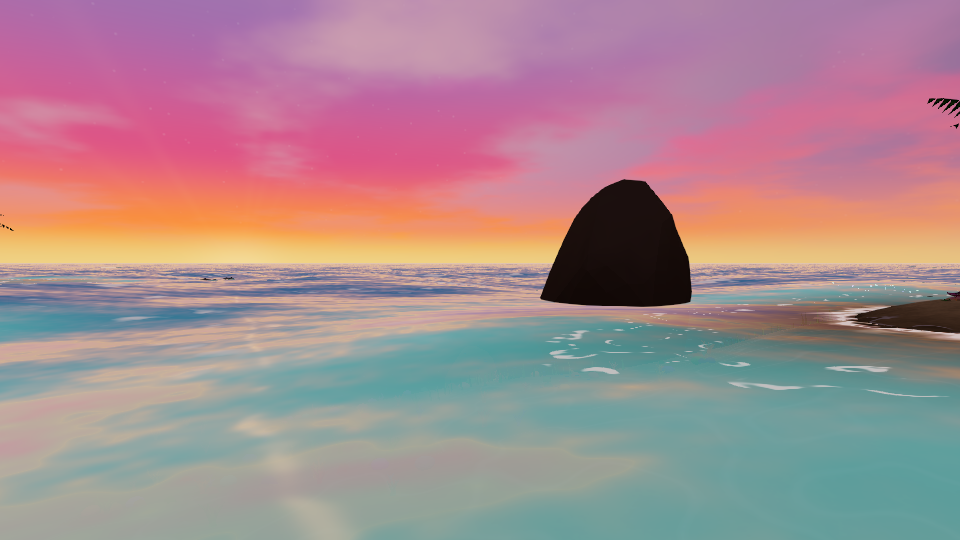
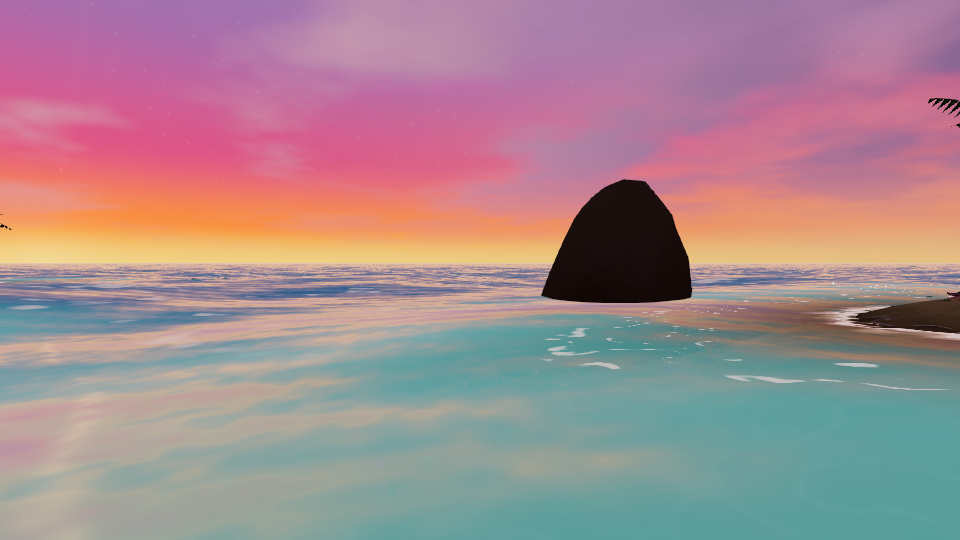
Start view: sun centred on the horizon left of the volcano; fresh-page measurements
- docs/start_view/sun_turn.patch: SUN_TURN = -7*PI/12 (-105 degrees). Sunrise lands on the horizon
  just left of the centre of the opening view, not behind the volcano.
- Opening: VIEW (0, 70, 270) looking at (5, 20, 40), with setFov(50). Measured on fresh pages:
  2,995 draw calls and 13.3 M triangles, against 3,052 and 13.6 M now (fov 55 at the same spot is 3,091 and 13.8 M).
- Lagoon sunset preset (30, 3, 120): 1,536 calls and 11.1 M triangles.
- Earlier figures were taken on pages that had rendered other poses first (vegetation LOD state);
  the handoff now uses fresh-page numbers only.
- tools/start_view/render_fresh.mjs: renders each pose on a fresh, settled page.

Session: https://claude.ai/code/session_011wzugJpmAa3YT3TXD44BDz

diff --git a/docs/START_VIEW_HANDOFF.md b/docs/START_VIEW_HANDOFF.md
@@ -8,7 +8,7 @@ Preview (private, owner only): https://claude.ai/artifact/Ep49EfqyRZRoAyq743CK88
 
 ## 1. What you asked for
 
-The game should open on the view from your screenshot, the lagoon in the foreground with the island and the volcano behind it, with the sun rising behind the island. The sun currently rises in the east, which puts it beside that view, not behind it. So the island's orientation on the compass changes: the sun rises in the north instead.
+The game should open on the view from your screenshot: the lagoon in the foreground, the island, and the volcano behind it. The sun should come up on the horizon near the centre of that frame, not hidden behind the volcano. The compass names are only a means to that: the sun's arc is turned until the sunrise lands there.
 
 Turning the island itself would move every placed object, and the placement and the object ids depend on their coordinates (the seeded placement, saved notes and the inspector all rely on them). So the change turns the sun's daily arc instead: the sun and the moon rise and set on a different compass bearing, and the island stays where it is. From the player's side the result is the same: the island is oriented differently against the sun.
 
@@ -20,8 +20,9 @@ The patch is `docs/start_view/sun_turn.patch` (line endings kept). In short, in 
 
 ```js
 // The compass turn of the sun's daily arc, in radians about the vertical axis.
-// 0 rises in the east and sets in the west (the old orientation); -PI/2 rises in the north and sets in the south.
-export const SUN_TURN = -Math.PI / 2;
+// 0 rises in the east and sets in the west (the old orientation). -7*PI/12 (-105 degrees) puts sunrise on the horizon
+// just left of the centre of the opening view, clear of the volcano.
+export const SUN_TURN = -(7 * Math.PI) / 12;
 const _tc = Math.cos(SUN_TURN), _ts = Math.sin(SUN_TURN);
 const turned = (x, y, z) => new THREE.Vector3(x * _tc - z * _ts, y, x * _ts + z * _tc).normalize();
 
@@ -31,42 +32,43 @@ env.sunDir.copy(turned(Math.cos(a), Math.sin(a), 0.28));
 env.moonDir.copy(turned(Math.cos(a + e), Math.sin(a + e), 0.28));
 ```
 
-Sunrise moves to the north (`(0.28, 0, -1)`) and sunset to the south (`(0.28, 0, 1)`). The sun, the moon, the sky, the shadows and the water lighting all read `env.sunDir` or `env.moonDir`, so they all turn together.
+With this angle the sunrise is the direction `(0.01, 0, -1)` and the sunset `(-0.01, 0, 1)`, so both stay on the north-south line. The sun and the moon turn together. The sun, the moon, the sky, the shadows and the water lighting all read `env.sunDir` or `env.moonDir`, so they all turn together.
 
 ### 2.2 `src/main.js`: the opening view (line 182)
 
 ```js
 // now
 const VIEW = { pos: [-230, 60, -20], tgt: [0, 30, -10] };
-// proposed: from the south sea, looking north at the lagoon, the island and the volcano (your screenshot)
-const VIEW = { pos: [0, 60, 254], tgt: [5, 20, 40] };
+// proposed: the view from your screenshot, from the south sea, looking north at the lagoon and the island.
+// Call setFov(50) after flyTo (imported from camera.js): the lens eases to 50, which keeps the same framing with less in view.
+const VIEW = { pos: [0, 70, 270], tgt: [5, 20, 40] };
+flyTo(VIEW.pos, VIEW.tgt, 0.05); setFov(50);
 ```
 
 ### 2.3 `src/main.js`: a lagoon sunset preset (in the `presets` list, about line 124)
 
 ```js
-{ name: 'Lagoon sunset', pos: [30, 3, 120], tgt: [12, 1.5, 230], dur: 4 }
+{ name: 'Lagoon sunset', pos: [30, 3, 120], tgt: [12, 1.5, 230], dur: 4 }   // unchanged; open sea to the south at this angle
 ```
 
 It shows the sun setting over the open sea to the south. The sun is only near the horizon around the dusk hours (time of day 17.5 to 19), so the preset is most useful then. The game does not change the time when the camera goes there.
 
-## 3. Measured (headless Chromium, software GL; counts are exact for each frame)
+## 3. Measured (headless Chromium, software GL; each pose on a fresh, settled page)
 
 | View | Draw calls | Triangles | Against now |
 |---|---|---|---|
-| **Now**: the current opening | 3,165 | 14.2 M | (baseline) |
-| **Proposed opening** (0, 60, 254) | **2,842** | **12.0 M** | fewer calls and triangles |
-| Alternative, closer (12, 60, 242) | 3,177 | 14.0 M | about the same |
-| Alternative, (0, 35, 254) | 3,133 | 11.6 M | fewer triangles, more calls |
-| Lagoon sunset preset (30, 3, 120) | 1,731 | 10.4 M | much fewer |
+| **Now**: the current opening | 3,052 | 13.6 M | (baseline) |
+| **Proposed opening** (0, 70, 270), fov 50 | **2,995** | **13.3 M** | fewer calls and triangles |
+| Same position, fov 55 | 3,091 | 13.8 M | more (so the 50 lens is what keeps it at or below now) |
+| Lagoon sunset preset (30, 3, 120) | 1,536 | 11.1 M | much fewer |
 
-The proposed opening is cheaper on both counts. Frame time needs your `?perf=1` run on your machine: software GL cannot measure it.
+The proposed opening is cheaper than the current one on both counts. Earlier figures in this file were taken on pages that had already rendered other poses; the vegetation LOD keeps some state between poses, so those numbers were not comparable. The numbers above are from fresh pages. Frame time needs your `?perf=1` run on your machine: software GL cannot measure it.
 
 ## 4. Checks in the game
 
-- Open the game at dawn: the sun should come up behind the volcano and the island, not over the sea beside it.
+- Open the game at dawn: the sun should come up on the horizon near the centre of the view, to the left of the volcano, not behind it. The position of the sunrise is the thing to tune: `SUN_TURN` moves it left and right (a smaller magnitude moves it right, a larger one left).
 - Check the sunset from the lagoon preset around time 18.
-- The shadows now fall along a north-south axis (the sun's new arc). That is intended, and it is a lighting result, not a cost.
+- The shadows fall along the sun's new arc. That is a lighting result, not a cost.
 - The prevailing wind is still `north-west`. The wind is not turned; say if you want it turned to match.
 - Nothing in placement changes. The constant draws no random numbers, and object ids are unchanged.
 - Run `?perf=1` at the opening, before and after.
@@ -76,6 +78,6 @@ The proposed opening is cheaper on both counts. Frame time needs your `?perf=1` 
 - `docs/start_view/sun_turn.patch`: the change to `src/core.js`, against the game's current file.
 - `docs/start_view/reference_screenshot.png`: your screenshot, for comparison.
 - `docs/start_view/now_dawn_start.png`: the current opening, for comparison.
-- `docs/start_view/south_dawn_proposed.png`: the proposed opening, rendered from the built game with the sun turned.
+- `docs/start_view/opening_sun_centre.png`: the proposed opening, rendered from the built game with the sun turned to -105 degrees and fov 50.
 - `docs/start_view/lagoon_sunset_proposed.png`: the proposed lagoon sunset.
-- `tools/start_view/search_south.mjs` and `tools/start_view/render_views.mjs`: search for open horizons and render candidate poses, counting draw calls and triangles. Both take `GAME_URL` for a running build.
+- `tools/start_view/render_fresh.mjs`: renders each pose on a fresh page and counts draw calls and triangles. `tools/start_view/search_south.mjs` searches for open horizons. Both take `GAME_URL` for a running build.
